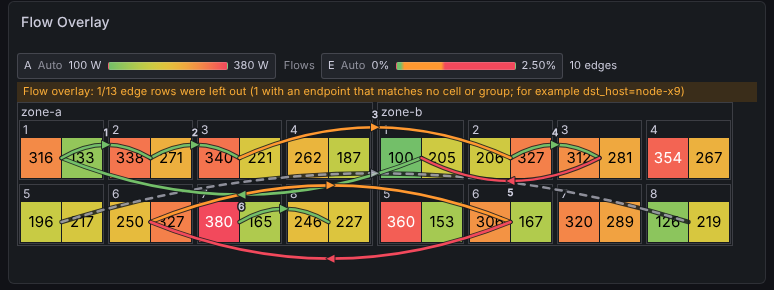
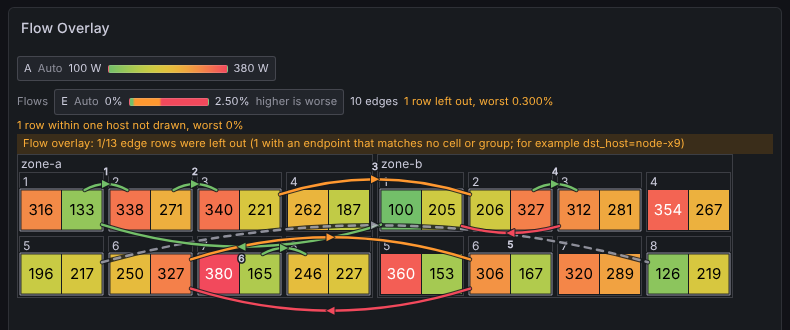
docs: retake the flow overlay screenshot
The picture in the README shows the overlay as it is now: outlined
host groups with arcs from outline to outline, the words for the worse
end of the scale, and the legend's notes on the rows that have no arc.

Claude-Session: https://claude.ai/code/session_012me448yAksxRtbQf2QUjB3

diff --git a/README.md b/README.md
@@ -227,7 +227,7 @@ Cells show the state of one endpoint. Many faults in an AI / HPC cluster are bet
 
 ![Flow overlay: arcs between host groups, with a numbered ring of six hops](./src/img/fleetgrid-flow-overlay.png)
 
-The example shows two zones of eight hosts with two GPUs each. The edge query names hosts, so the arcs run between host groups. The numbered arcs are the six hops of one ring. The two arcs between the hosts numbered 6 are the two directions of one pair, and the dashed arc is an edge without a value. The banner reports one edge row whose destination is not in the grid.
+The example shows two zones of eight hosts with two GPUs each. The edge query names hosts, so the arcs run between host groups: each group that has an edge is outlined, and an arc runs from outline to outline. The numbered arcs are the six hops of one ring. The two arcs between the hosts numbered 6 are the two directions of one pair, and the dashed arc is an edge without a value. The header says which end of the color scale is the worse one and how many rows have no arc; the banner gives an example of an edge row whose destination is not in the grid.
 
 ### The edge query
 
